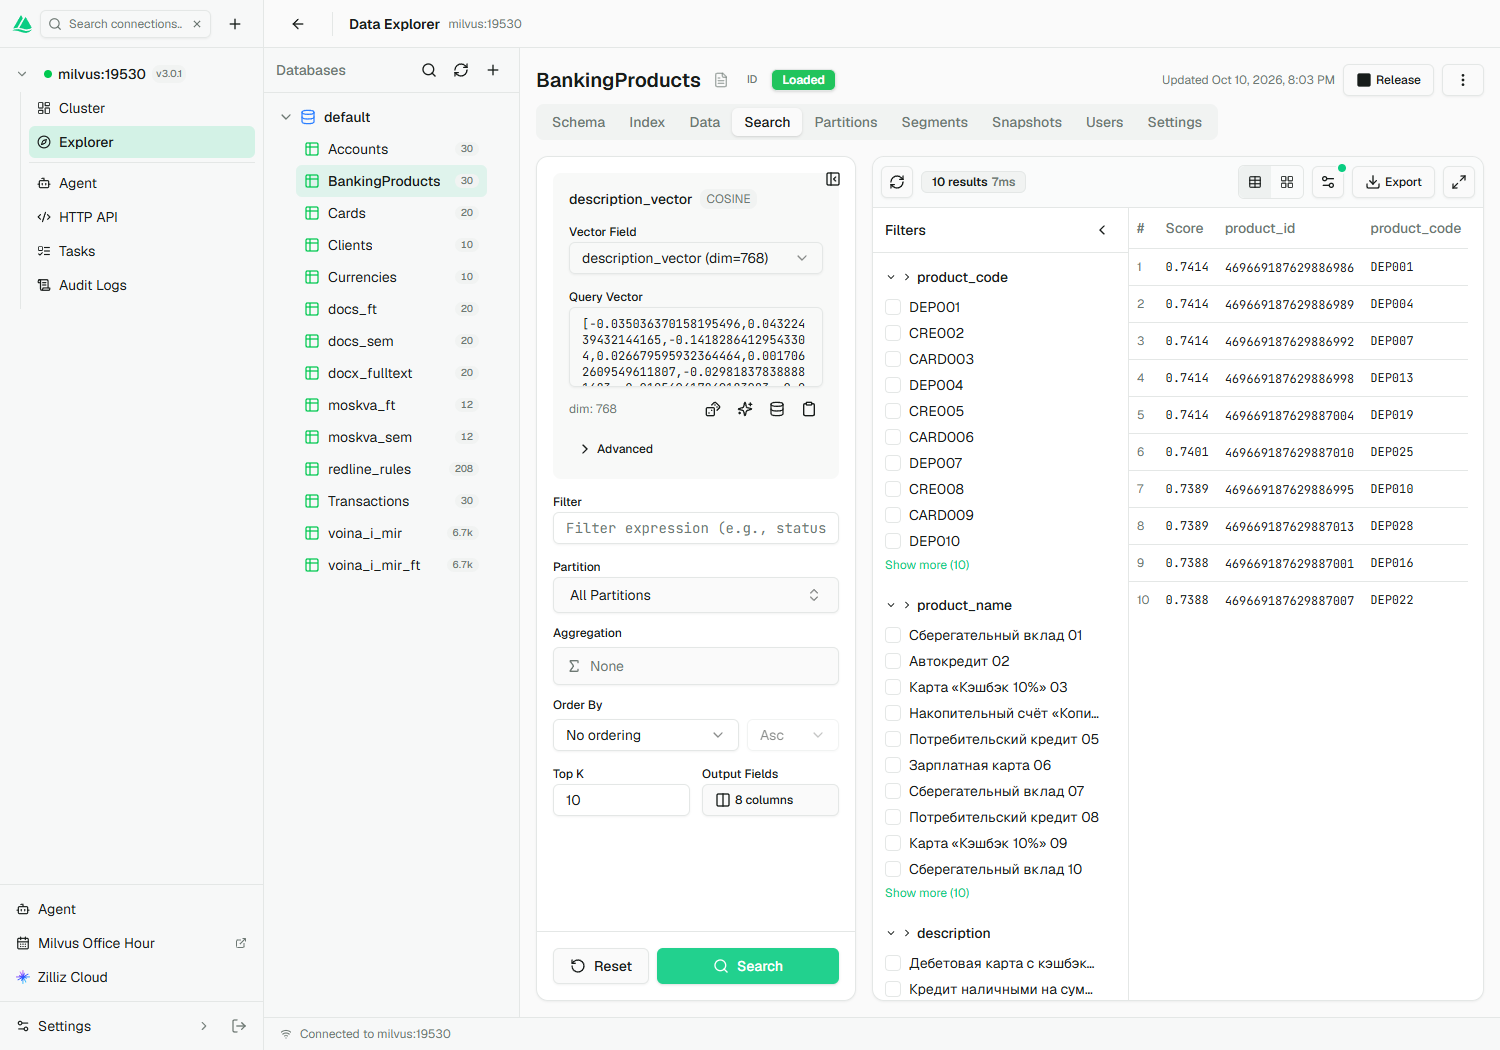
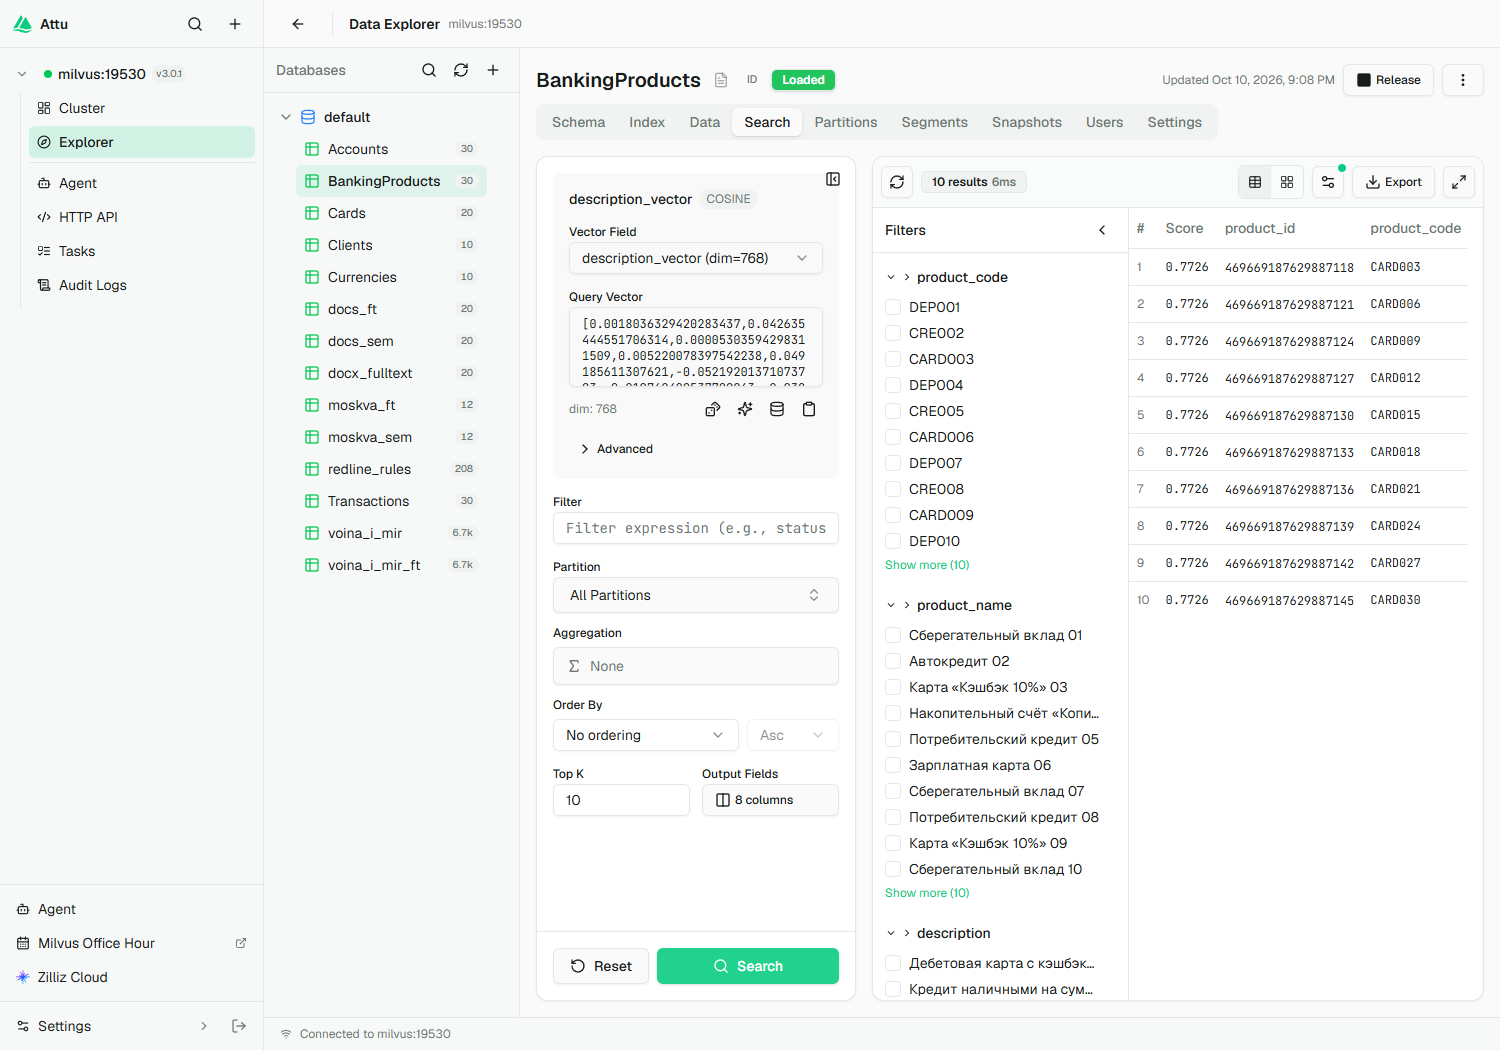
feat(report): switch embeddings to intfloat/multilingual-e5-base (as in report) + local E5 OpenAI-compatible server + more screenshots (transactions/clients schema, index, tx search)

diff --git a/listings_script/e5_embed_server.py b/listings_script/e5_embed_server.py
@@ -1,0 +1,77 @@
+# -*- coding: utf-8 -*-
+"""Мини-сервер OpenAI-совместимых эмбеддингов на intfloat/multilingual-e5-base (как в отчёте).
+
+Зачем: Attu для кнопки "Embed text/image" должен считать вектор ТОЙ ЖЕ моделью,
+что и документы (E5, префикс 'query: '), иначе поиск не совпадёт.
+
+Эндпоинты: POST /v1/embeddings и POST /embeddings
+Тело:      {"model": "...", "input": "текст" | ["текст", ...]}
+Ответ:     {"object":"list","data":[{"object":"embedding","index":i,"embedding":[...]}], ...}
+
+Запуск:
+  python listings_script/e5_embed_server.py --port 8091
+"""
+import argparse, json
+from http.server import BaseHTTPRequestHandler, ThreadingHTTPServer
+
+MODEL = None
+MODEL_NAME = "intfloat/multilingual-e5-base"
+PREFIX = "query: "  # Attu шлёт текст запроса -> префикс запроса E5
+
+
+class Handler(BaseHTTPRequestHandler):
+    def log_message(self, *a):
+        pass
+
+    def _send(self, code, obj):
+        body = json.dumps(obj, ensure_ascii=False).encode("utf-8")
+        self.send_response(code)
+        self.send_header("Content-Type", "application/json; charset=utf-8")
+        self.send_header("Content-Length", str(len(body)))
+        self.end_headers()
+        self.wfile.write(body)
+
+    def do_GET(self):
+        if self.path.rstrip("/").endswith("/models"):
+            self._send(200, {"object": "list", "data": [
+                {"id": MODEL_NAME, "object": "model", "owned_by": "local"}]})
+        else:
+            self._send(404, {"error": "not found"})
+
+    def do_POST(self):
+        if not self.path.rstrip("/").endswith("/embeddings"):
+            self._send(404, {"error": "use /v1/embeddings"})
+            return
+        n = int(self.headers.get("Content-Length", 0))
+        try:
+            req = json.loads(self.rfile.read(n) or b"{}")
+        except Exception as e:
+            self._send(400, {"error": f"bad json: {e}"})
+            return
+        inp = req.get("input", "")
+        texts = inp if isinstance(inp, list) else [inp]
+        texts = [PREFIX + t for t in texts]
+        vecs = MODEL.encode(texts, normalize_embeddings=True, show_progress_bar=False)
+        data = [{"object": "embedding", "index": i, "embedding": [float(x) for x in v]}
+                for i, v in enumerate(vecs)]
+        self._send(200, {"object": "list", "data": data,
+                         "model": MODEL_NAME, "usage": {"prompt_tokens": 0, "total_tokens": 0}})
+
+
+def main():
+    global MODEL, MODEL_NAME
+    ap = argparse.ArgumentParser()
+    ap.add_argument("--port", type=int, default=8091)
+    ap.add_argument("--model", default=MODEL_NAME)
+    args = ap.parse_args()
+
+    MODEL_NAME = args.model
+    from sentence_transformers import SentenceTransformer
+    print(f"[e5-server] загружаю {MODEL_NAME} ...", flush=True)
+    MODEL = SentenceTransformer(MODEL_NAME)
+    print(f"[e5-server] слушаю 0.0.0.0:{args.port}  (POST /v1/embeddings, prefix={PREFIX!r})", flush=True)
+    ThreadingHTTPServer(("0.0.0.0", args.port), Handler).serve_forever()
+
+
+if __name__ == "__main__":
+    main()

diff --git a/listings_script/A2_A3_collections_and_data.py b/listings_script/A2_A3_collections_and_data.py
@@ -42,6 +42,18 @@ def make_embedder(base_url, api_key, model, prefix="search_document: "):
     return encode
 
 
+def make_e5_embedder(model_name="intfloat/multilingual-e5-base", prefix="passage: "):
+    """Локальный эмбеддер E5 (как в отчёте, раздел 3.3.1): префикс 'passage: ', normalize=True."""
+    from sentence_transformers import SentenceTransformer
+    print(f"[e5] model={model_name} prefix={prefix!r}", flush=True)
+    model = SentenceTransformer(model_name)
+
+    def encode(texts):
+        vecs = model.encode([prefix + t for t in texts], normalize_embeddings=True, show_progress_bar=False)
+        return [list(map(float, v)) for v in vecs]
+    return encode
+
+
 def build_parser():
     p = argparse.ArgumentParser(description="Банковские коллекции из отчёта -> Milvus.")
     p.add_argument("--api-base", default=os.environ.get("OPENAI_BASE_URL", "http://127.0.0.1:1234/v1"))
@@ -52,6 +64,8 @@ def build_parser():
     p.add_argument("--user", default=os.environ.get("MILVUS_USER", ""))
     p.add_argument("--password", default=os.environ.get("MILVUS_PASSWORD", ""))
     p.add_argument("--recreate", action="store_true")
+    p.add_argument("--embedder", choices=["api", "e5"], default="api",
+                   help="api — OpenAI-совместимый сервер (LM Studio); e5 — локальный intfloat/multilingual-e5-base")
     p.add_argument("--n-products", type=int, default=30)
     p.add_argument("--n-transactions", type=int, default=30)
     p.add_argument("--seed", type=int, default=42)
@@ -225,7 +239,7 @@ def main(argv=None):
     random.seed(args.seed)
     uri = args.host if args.host.startswith("http") else f"http://{args.host}:{args.port}"
     c = MilvusClient(uri=uri, token=(f"{args.user}:{args.password}" if args.user else ""))
-    enc = make_embedder(args.api_base, args.api_key, args.api_model)
+    enc = make_e5_embedder() if args.embedder == "e5" else make_embedder(args.api_base, args.api_key, args.api_model)
 
     if args.recreate:
         for name in VECCOL + REFS:

diff --git a/scripts/create_banking_collections.py b/scripts/create_banking_collections.py
@@ -42,6 +42,18 @@ def make_embedder(base_url, api_key, model, prefix="search_document: "):
     return encode
 
 
+def make_e5_embedder(model_name="intfloat/multilingual-e5-base", prefix="passage: "):
+    """Локальный эмбеддер E5 (как в отчёте, раздел 3.3.1): префикс 'passage: ', normalize=True."""
+    from sentence_transformers import SentenceTransformer
+    print(f"[e5] model={model_name} prefix={prefix!r}", flush=True)
+    model = SentenceTransformer(model_name)
+
+    def encode(texts):
+        vecs = model.encode([prefix + t for t in texts], normalize_embeddings=True, show_progress_bar=False)
+        return [list(map(float, v)) for v in vecs]
+    return encode
+
+
 def build_parser():
     p = argparse.ArgumentParser(description="Банковские коллекции из отчёта -> Milvus.")
     p.add_argument("--api-base", default=os.environ.get("OPENAI_BASE_URL", "http://127.0.0.1:1234/v1"))
@@ -52,6 +64,8 @@ def build_parser():
     p.add_argument("--user", default=os.environ.get("MILVUS_USER", ""))
     p.add_argument("--password", default=os.environ.get("MILVUS_PASSWORD", ""))
     p.add_argument("--recreate", action="store_true")
+    p.add_argument("--embedder", choices=["api", "e5"], default="api",
+                   help="api — OpenAI-совместимый сервер (LM Studio); e5 — локальный intfloat/multilingual-e5-base")
     p.add_argument("--n-products", type=int, default=30)
     p.add_argument("--n-transactions", type=int, default=30)
     p.add_argument("--seed", type=int, default=42)
@@ -225,7 +239,7 @@ def main(argv=None):
     random.seed(args.seed)
     uri = args.host if args.host.startswith("http") else f"http://{args.host}:{args.port}"
     c = MilvusClient(uri=uri, token=(f"{args.user}:{args.password}" if args.user else ""))
-    enc = make_embedder(args.api_base, args.api_key, args.api_model)
+    enc = make_e5_embedder() if args.embedder == "e5" else make_embedder(args.api_base, args.api_key, args.api_model)
 
     if args.recreate:
         for name in VECCOL + REFS:

diff --git a/listings_script/README.md b/listings_script/README.md
@@ -8,10 +8,10 @@
 | Раздел | Файл(ы) | Что делает | Скриншот |
 |--------|---------|-----------|----------|
 | **А.1** Развёртывание | `A1_docker-compose.yml`, `A1_milvus-user.yaml` | Milvus 3.0 standalone + Attu (docker compose), авторизация root | `screens/S01_cluster_overview.png` |
-| **А.2** Коллекции и индексы | `A2_A3_collections_and_data.py` | создаёт 6 коллекций + индексы (HNSW/COSINE, INVERTED, STL_SORT) | `screens/S02_collections.png`, `S03_schema_products.png` |
+| **А.2** Коллекции и индексы | `A2_A3_collections_and_data.py` | создаёт 6 коллекций + индексы (HNSW/COSINE, INVERTED, STL_SORT) | `S02_collections.png`, `S03_schema_products.png`, `S13_schema_transactions.png`, `S14_schema_clients.png`, `S15_index_products.png` |
 | **А.3** Генератор данных | `A2_A3_collections_and_data.py` | 30 продуктов, 30 проводок, 10 валют, 10 клиентов, 30 счетов, 20 карт | `screens/S04_data_products.png` |
-| **А.4** Эмбеддинги (E5) | `A3_A4_A5_embed_search_anomaly.py` | `embed_passage`/`embed_query` (префиксы `passage:`/`query:`, dim=768, normalize) | `screens/S03_schema_products.png` (вектор dim=768), `S05_search_products.png` |
-| **А.5** Поиск / категоризация / аномалии | `A3_A4_A5_embed_search_anomaly.py` | 3.4.1 поиск продуктов с фильтром; 3.4.2 похожие назначения; 3.4.3 аномалии по центроиду (θ = μ−2σ) | `screens/S05_search_products.png` |
+| **А.4** Эмбеддинги E5 | `A2_A3_collections_and_data.py --embedder e5`, `e5_embed_server.py` | `intfloat/multilingual-e5-base`, префиксы `passage:`/`query:`, dim=768, normalize | `S09_embedding_e5_test.png`, `S10_embedding_providers.png` |
+| **А.5** Поиск / категоризация / аномалии | `A3_A4_A5_embed_search_anomaly.py` | 3.4.1 поиск продуктов с фильтром; 3.4.2 похожие назначения; 3.4.3 аномалии по центроиду (θ = μ−2σ) | `S05_search_products.png`, `S16_search_transactions.png` |
 | **А.6** RBAC и ресурсные группы | `A6_rbac.py` (+ `probe_rbac.py`) | роли `analyst`/`viewer`, юзеры `admin_user`/`analyst_user`/`viewer_user`, группы `rg_high_priority`/`rg_low_priority` | **`screens/S06_users.png`**, **`screens/S07_roles.png`** |
 | **А.7** Эксперименты и метрики | `A7_benchmark.py` | efConstruction, ef, индексы, фильтры, метрики (N=50000) | `screens/S08_metrics.png` |
 | Вспомогательное | `common.py`, `selfcheck.py`, `probe_api.py`, `probe_fix.py`, `restore_rg.py`, `make_appendix.py` | харнесс, самопроверка, RBAC-проба, откат ресурсной группы | — |
@@ -23,10 +23,14 @@
 $env:MILVUS_HOST='127.0.0.1'; $env:MILVUS_PORT='19530'
 $env:MILVUS_USER='root';      $env:MILVUS_PASSWORD='MilvusDemo123'
 
-# А.2 + А.3: коллекции + синтетические данные (эмбеддинги через LM Studio, dim=768)
-python .\listings_script\A2_A3_collections_and_data.py `
-  --api-base http://127.0.0.1:1234/v1 --api-key "<токен LM Studio>" `
-  --api-model text-embedding-nomic-embed-text-v1.5 --recreate
+# А.2 + А.3: коллекции + синтетические данные на E5 (как в отчёте, dim=768)
+python .\listings_script\A2_A3_collections_and_data.py --embedder e5 --recreate `
+  --host 127.0.0.1 --port 19530 --user root --password MilvusDemo123
+
+# А.4: локальный OpenAI-совместимый сервер E5 для поиска из UI Attu
+python .\listings_script\e5_embed_server.py --port 8091
+#   Attu: Settings → Embedding → Add Provider → Custom:
+#     Base URL = http://host.docker.internal:8091, Model = intfloat/multilingual-e5-base, Dimension = 768
 
 # А.6: RBAC (роли analyst/viewer, пользователи, ресурсные группы)
 python .\listings_script\A6_rbac.py
@@ -43,3 +47,40 @@ python .\listings_script\A6_rbac.py
 Ресурсные группы: `rg_high_priority` → `Transactions`, `rg_low_priority` → `BankingProducts`.
 
 > Скриншоты: `screens/S06_users.png` (пользователи), `screens/S07_roles.png` (роли с числом прав).
+
+## Модель эмбеддингов (важно)
+
+Отчёт (§3.3.1) использует **`intfloat/multilingual-e5-base`**: dim=768, префиксы
+`passage: ` (документы) и `query: ` (запросы), `normalize_embeddings=True`.
+
+- Заливка «как в отчёте»: `A2_A3_collections_and_data.py --embedder e5`
+  (модель берётся из кэша HF, работает на CPU).
+- Чтобы поиск **из UI Attu** считал вектор той же моделью, поднят локальный
+  OpenAI-совместимый сервер `e5_embed_server.py` (порт 8091, префикс `query: `)
+  и подключён в Attu: **Settings → Embedding → Add Provider → Custom**
+  (`Base URL = http://host.docker.internal:8091`, `Model = intfloat/multilingual-e5-base`, `Dimension = 768`).
+  Скрины: `S09_embedding_e5_test.png` (Test Connection), `S10_embedding_providers.png` (список провайдеров).
+
+> Ранее использовался `text-embedding-nomic-embed-text-v1.5` из LM Studio (та же размерность 768,
+> но префиксы `search_document:`/`search_query:` и другое векторное пространство) —
+> для соответствия отчёту заменён на E5.
+
+## Скриншоты (папка `screens/`)
+
+| Файл | Раздел отчёта | Что на скрине |
+|------|---------------|----------------|
+| `S00_login.png` | 3.1 | вход в Attu |
+| `S01_cluster_overview.png` | 2.1 | Milvus Standalone, версия 3.0.1, узлы |
+| `S02_collections.png` | 2.3 | список 6 банковских коллекций |
+| `S03_schema_products.png` | 2.3.1 | схема BankingProducts (vector dim=768) |
+| `S04_data_products.png` | 3.3 | данные BankingProducts (30 записей) |
+| `S05_search_products.png` | 2.9.1 / 3.4.1 | семантический поиск продуктов (E5) |
+| `S06_users.png` | 2.7 / 3.5 | пользователи (admin_user/admin, analyst_user/analyst, viewer_user/viewer) |
+| `S07_roles.png` | 2.7 / 3.5 | роли (analyst +7 прав, viewer +2 права) |
+| `S08_metrics.png` | 3.6 / А.7 | таблицы метрик (efConstruction, ef, индексы, фильтры, метрики) |
+| `S09_embedding_e5_test.png` | 3.3 | Test Connection провайдера E5 → success |
+| `S10_embedding_providers.png` | 3.3 | список провайдеров эмбеддингов |
+| `S13_schema_transactions.png` | 2.3.6 | схема Transactions (purpose_vector dim=768) |
+| `S14_schema_clients.png` | 2.3.2 | схема Clients (+ `_tech_vector`) |
+| `S15_index_products.png` | 2.4 | индексы BankingProducts (HNSW, INVERTED, STL_SORT) |
+| `S16_search_transactions.png` | 3.4.2 | поиск похожих транзакций (E5) |
